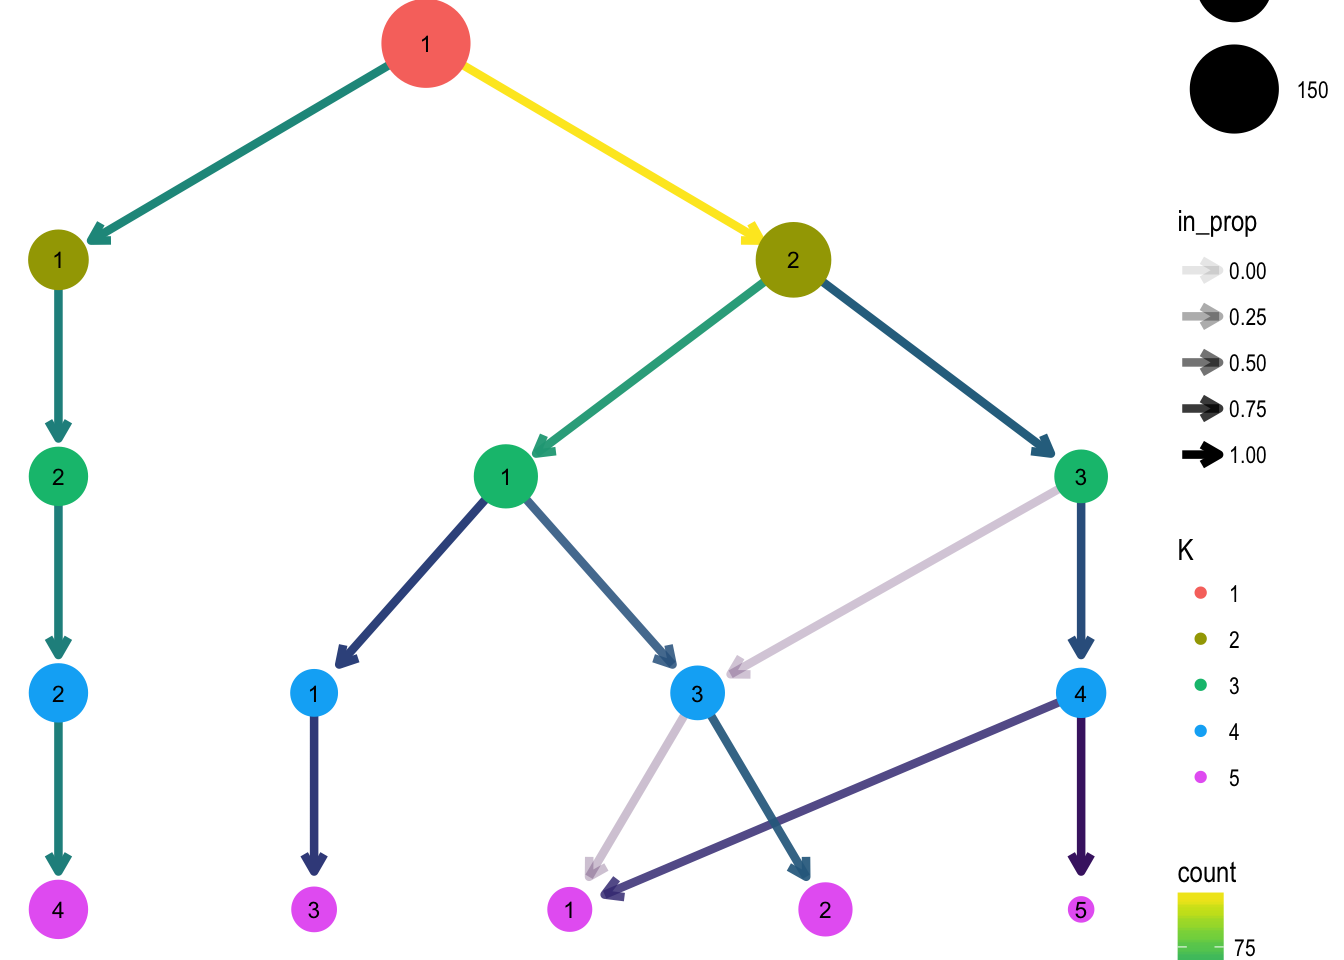
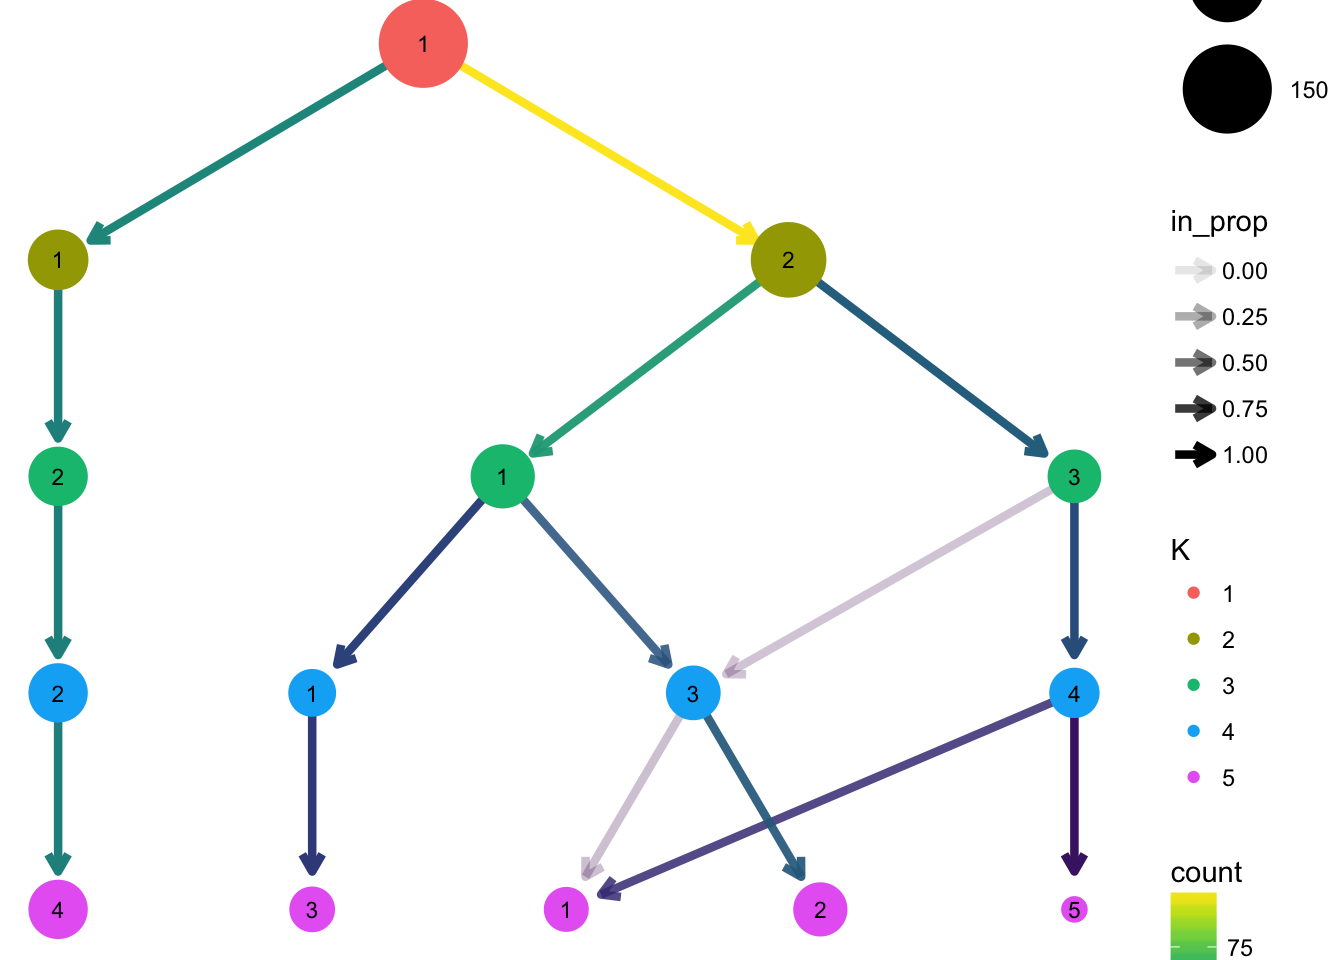
Bump version

diff --git a/docs/reference/clustree.html b/docs/reference/clustree.html
@@ -121,8 +121,8 @@ clusterings at different resolutions.</p>
   <span class='kw'>node_colour_aggr</span> <span class='kw'>=</span> <span class='kw'>NULL</span>, <span class='kw'>node_size</span> <span class='kw'>=</span> <span class='st'>"size"</span>, <span class='kw'>node_size_aggr</span> <span class='kw'>=</span> <span class='kw'>NULL</span>,
   <span class='kw'>node_size_range</span> <span class='kw'>=</span> <span class='fu'>c</span>(<span class='fl'>4</span>, <span class='fl'>15</span>), <span class='kw'>node_alpha</span> <span class='kw'>=</span> <span class='fl'>1</span>, <span class='kw'>node_alpha_aggr</span> <span class='kw'>=</span> <span class='kw'>NULL</span>,
   <span class='kw'>node_text_size</span> <span class='kw'>=</span> <span class='fl'>3</span>, <span class='kw'>scale_node_text</span> <span class='kw'>=</span> <span class='fl'>FALSE</span>, <span class='kw'>node_text_colour</span> <span class='kw'>=</span> <span class='st'>"black"</span>,
-  <span class='kw'>edge_width</span> <span class='kw'>=</span> <span class='fl'>1.5</span>, <span class='kw'>edge_arrow</span> <span class='kw'>=</span> <span class='fl'>TRUE</span>, <span class='kw'>layout</span> <span class='kw'>=</span> <span class='fu'>c</span>(<span class='st'>"tree"</span>, <span class='st'>"sugiyama"</span>),
-  <span class='no'>...</span>)
+  <span class='kw'>edge_width</span> <span class='kw'>=</span> <span class='fl'>1.5</span>, <span class='kw'>edge_arrow</span> <span class='kw'>=</span> <span class='fl'>TRUE</span>, <span class='kw'>edge_arrow_ends</span> <span class='kw'>=</span> <span class='st'>"last"</span>,
+  <span class='kw'>layout</span> <span class='kw'>=</span> <span class='fu'>c</span>(<span class='st'>"tree"</span>, <span class='st'>"sugiyama"</span>), <span class='no'>...</span>)
 
 <span class='co'># S3 method for data.frame</span>
 <span class='fu'>clustree</span>(<span class='no'>x</span>, <span class='no'>prefix</span>, <span class='no'>...</span>)
@@ -230,6 +230,11 @@ with the node size</p></td>
       <td><p>logical indicating whether to add an arrow to edges</p></td>
     </tr>
     <tr>
+      <th>edge_arrow_ends</th>
+      <td><p>One of <code>"last"</code>, <code>"first"</code>, or <code>"both"</code>,
+indicating which ends of the line to draw arrow heads if <code>edge_arrow = "TRUE"</code>.</p></td>
+    </tr>
+    <tr>
       <th>layout</th>
       <td><p>character specifying the "tree" or "sugiyama" layout, see
 <code><a href='http://www.rdocumentation.org/packages/igraph/topics/layout_as_tree'>igraph::layout_as_tree()</a></code> and <code><a href='http://www.rdocumentation.org/packages/igraph/topics/layout_with_sugiyama'>igraph::layout_with_sugiyama()</a></code> for details</p></td>
@@ -299,7 +304,7 @@ must take a vector of values and return a single value.</p>
 
       <footer>
       <div class="copyright">
-  <p>Developed by Luke Zappia.</p>
+  <p>Developed by Luke Zappia, Alicia Oshlack.</p>
 </div>
 
 <div class="pkgdown">

diff --git a/docs/news/index.html b/docs/news/index.html
@@ -106,6 +106,12 @@
     </div>
 
     <div class="contents">
+    <div class="section level2">
+<h2>clustree 0.1.1 (2018-03-23)</h2>
+<ul>
+<li>Add edge_arrow_ends argument</li>
+</ul>
+</div>
     <div class="section level1">
 <h1>clustree 0.1.0 (2018-03-01)</h1>
 <ul>
@@ -214,6 +220,7 @@
     <div id="tocnav">
       <h2>Contents</h2>
       <ul class="nav nav-pills nav-stacked">
+        <li><a href="#NA">0.1.1</a></li>
         <li><a href="#NA">0.1.0</a></li>
         <li><a href="#NA">0.0.0.9000</a></li>
       </ul>
@@ -224,7 +231,7 @@
 
       <footer>
       <div class="copyright">
-  <p>Developed by Luke Zappia.</p>
+  <p>Developed by Luke Zappia, Alicia Oshlack.</p>
 </div>
 
 <div class="pkgdown">

diff --git a/docs/authors.html b/docs/authors.html
@@ -109,6 +109,14 @@
         <p><strong>Luke Zappia</strong>. Author, maintainer. 
         </p>
       </li>
+      <li>
+        <p><strong>Alicia Oshlack</strong>. Author. 
+        </p>
+      </li>
+      <li>
+        <p><strong>Andrea Rau</strong>. Contributor. 
+        </p>
+      </li>
     </ul>
 
   </div>
@@ -118,7 +126,7 @@
 
       <footer>
       <div class="copyright">
-  <p>Developed by Luke Zappia.</p>
+  <p>Developed by Luke Zappia, Alicia Oshlack.</p>
 </div>
 
 <div class="pkgdown">

diff --git a/docs/index.html b/docs/index.html
@@ -112,6 +112,8 @@
 <h2>Developers</h2>
 <ul class="list-unstyled">
 <li>Luke Zappia <br><small class="roles"> Author, maintainer </small>  </li>
+<li>Alicia Oshlack <br><small class="roles"> Author </small>  </li>
+<li><a href="authors.html">All authors...</a></li>
 </ul>
 <h2>Dev status</h2>
 <ul class="list-unstyled">
@@ -124,7 +126,7 @@
 
 
       <footer><div class="copyright">
-  <p>Developed by Luke Zappia.</p>
+  <p>Developed by Luke Zappia, Alicia Oshlack.</p>
 </div>
 
 <div class="pkgdown">

diff --git a/docs/articles/clustree.html b/docs/articles/clustree.html
@@ -78,7 +78,7 @@
       <h1>Plotting clustering trees</h1>
                         <h4 class="author">Luke Zappia</h4>
             
-            <h4 class="date">2018-03-01</h4>
+            <h4 class="date">2018-03-23</h4>
           </div>
 
     
@@ -314,7 +314,7 @@
 
 
       <footer><div class="copyright">
-  <p>Developed by Luke Zappia.</p>
+  <p>Developed by Luke Zappia, Alicia Oshlack.</p>
 </div>
 
 <div class="pkgdown">

diff --git a/docs/articles/index.html b/docs/articles/index.html
@@ -99,7 +99,7 @@
       </header>
 
       <div class="page-header">
-  <h1>Articles <small>version&nbsp;0.0.0.9013</small></h1>
+  <h1>Articles <small>version&nbsp;0.1.1</small></h1>
 </div>
 
 <div class="row">
@@ -117,7 +117,7 @@
 
       <footer>
       <div class="copyright">
-  <p>Developed by Luke Zappia.</p>
+  <p>Developed by Luke Zappia, Alicia Oshlack.</p>
 </div>
 
 <div class="pkgdown">

diff --git a/docs/reference/index.html b/docs/reference/index.html
@@ -103,7 +103,7 @@
     <div class="page-header">
       <h1>
         Reference
-        <small>version&nbsp;0.0.0.9013</small>
+        <small>version&nbsp;0.1.1</small>
       </h1>
     </div>
 
@@ -171,7 +171,7 @@
 
       <footer>
       <div class="copyright">
-  <p>Developed by Luke Zappia.</p>
+  <p>Developed by Luke Zappia, Alicia Oshlack.</p>
 </div>
 
 <div class="pkgdown">

diff --git a/docs/reference/sim_sc3.html b/docs/reference/sim_sc3.html
@@ -157,7 +157,7 @@ sim_sc3 &lt;- sc3(sim_sc3, ks = 1:8, biology = FALSE, n_cores = 1)
 
       <footer>
       <div class="copyright">
-  <p>Developed by Luke Zappia.</p>
+  <p>Developed by Luke Zappia, Alicia Oshlack.</p>
 </div>
 
 <div class="pkgdown">

diff --git a/docs/reference/add_node_points.html b/docs/reference/add_node_points.html
@@ -154,7 +154,7 @@ name of a metadata column to use for node transparency</p></td>
 
       <footer>
       <div class="copyright">
-  <p>Developed by Luke Zappia.</p>
+  <p>Developed by Luke Zappia, Alicia Oshlack.</p>
 </div>
 
 <div class="pkgdown">

diff --git a/docs/reference/get_tree_edges.html b/docs/reference/get_tree_edges.html
@@ -146,7 +146,7 @@ column contains clustering at a separate resolution</p></td>
 
       <footer>
       <div class="copyright">
-  <p>Developed by Luke Zappia.</p>
+  <p>Developed by Luke Zappia, Alicia Oshlack.</p>
 </div>
 
 <div class="pkgdown">

diff --git a/docs/reference/build_tree_graph.html b/docs/reference/build_tree_graph.html
@@ -195,7 +195,7 @@ aggregate that column for samples in each cluster</p></td>
 
       <footer>
       <div class="copyright">
-  <p>Developed by Luke Zappia.</p>
+  <p>Developed by Luke Zappia, Alicia Oshlack.</p>
 </div>
 
 <div class="pkgdown">

diff --git a/docs/reference/get_tree_nodes.html b/docs/reference/get_tree_nodes.html
@@ -182,7 +182,7 @@ aggregate that column for samples in each cluster</p></td>
 
       <footer>
       <div class="copyright">
-  <p>Developed by Luke Zappia.</p>
+  <p>Developed by Luke Zappia, Alicia Oshlack.</p>
 </div>
 
 <div class="pkgdown">
